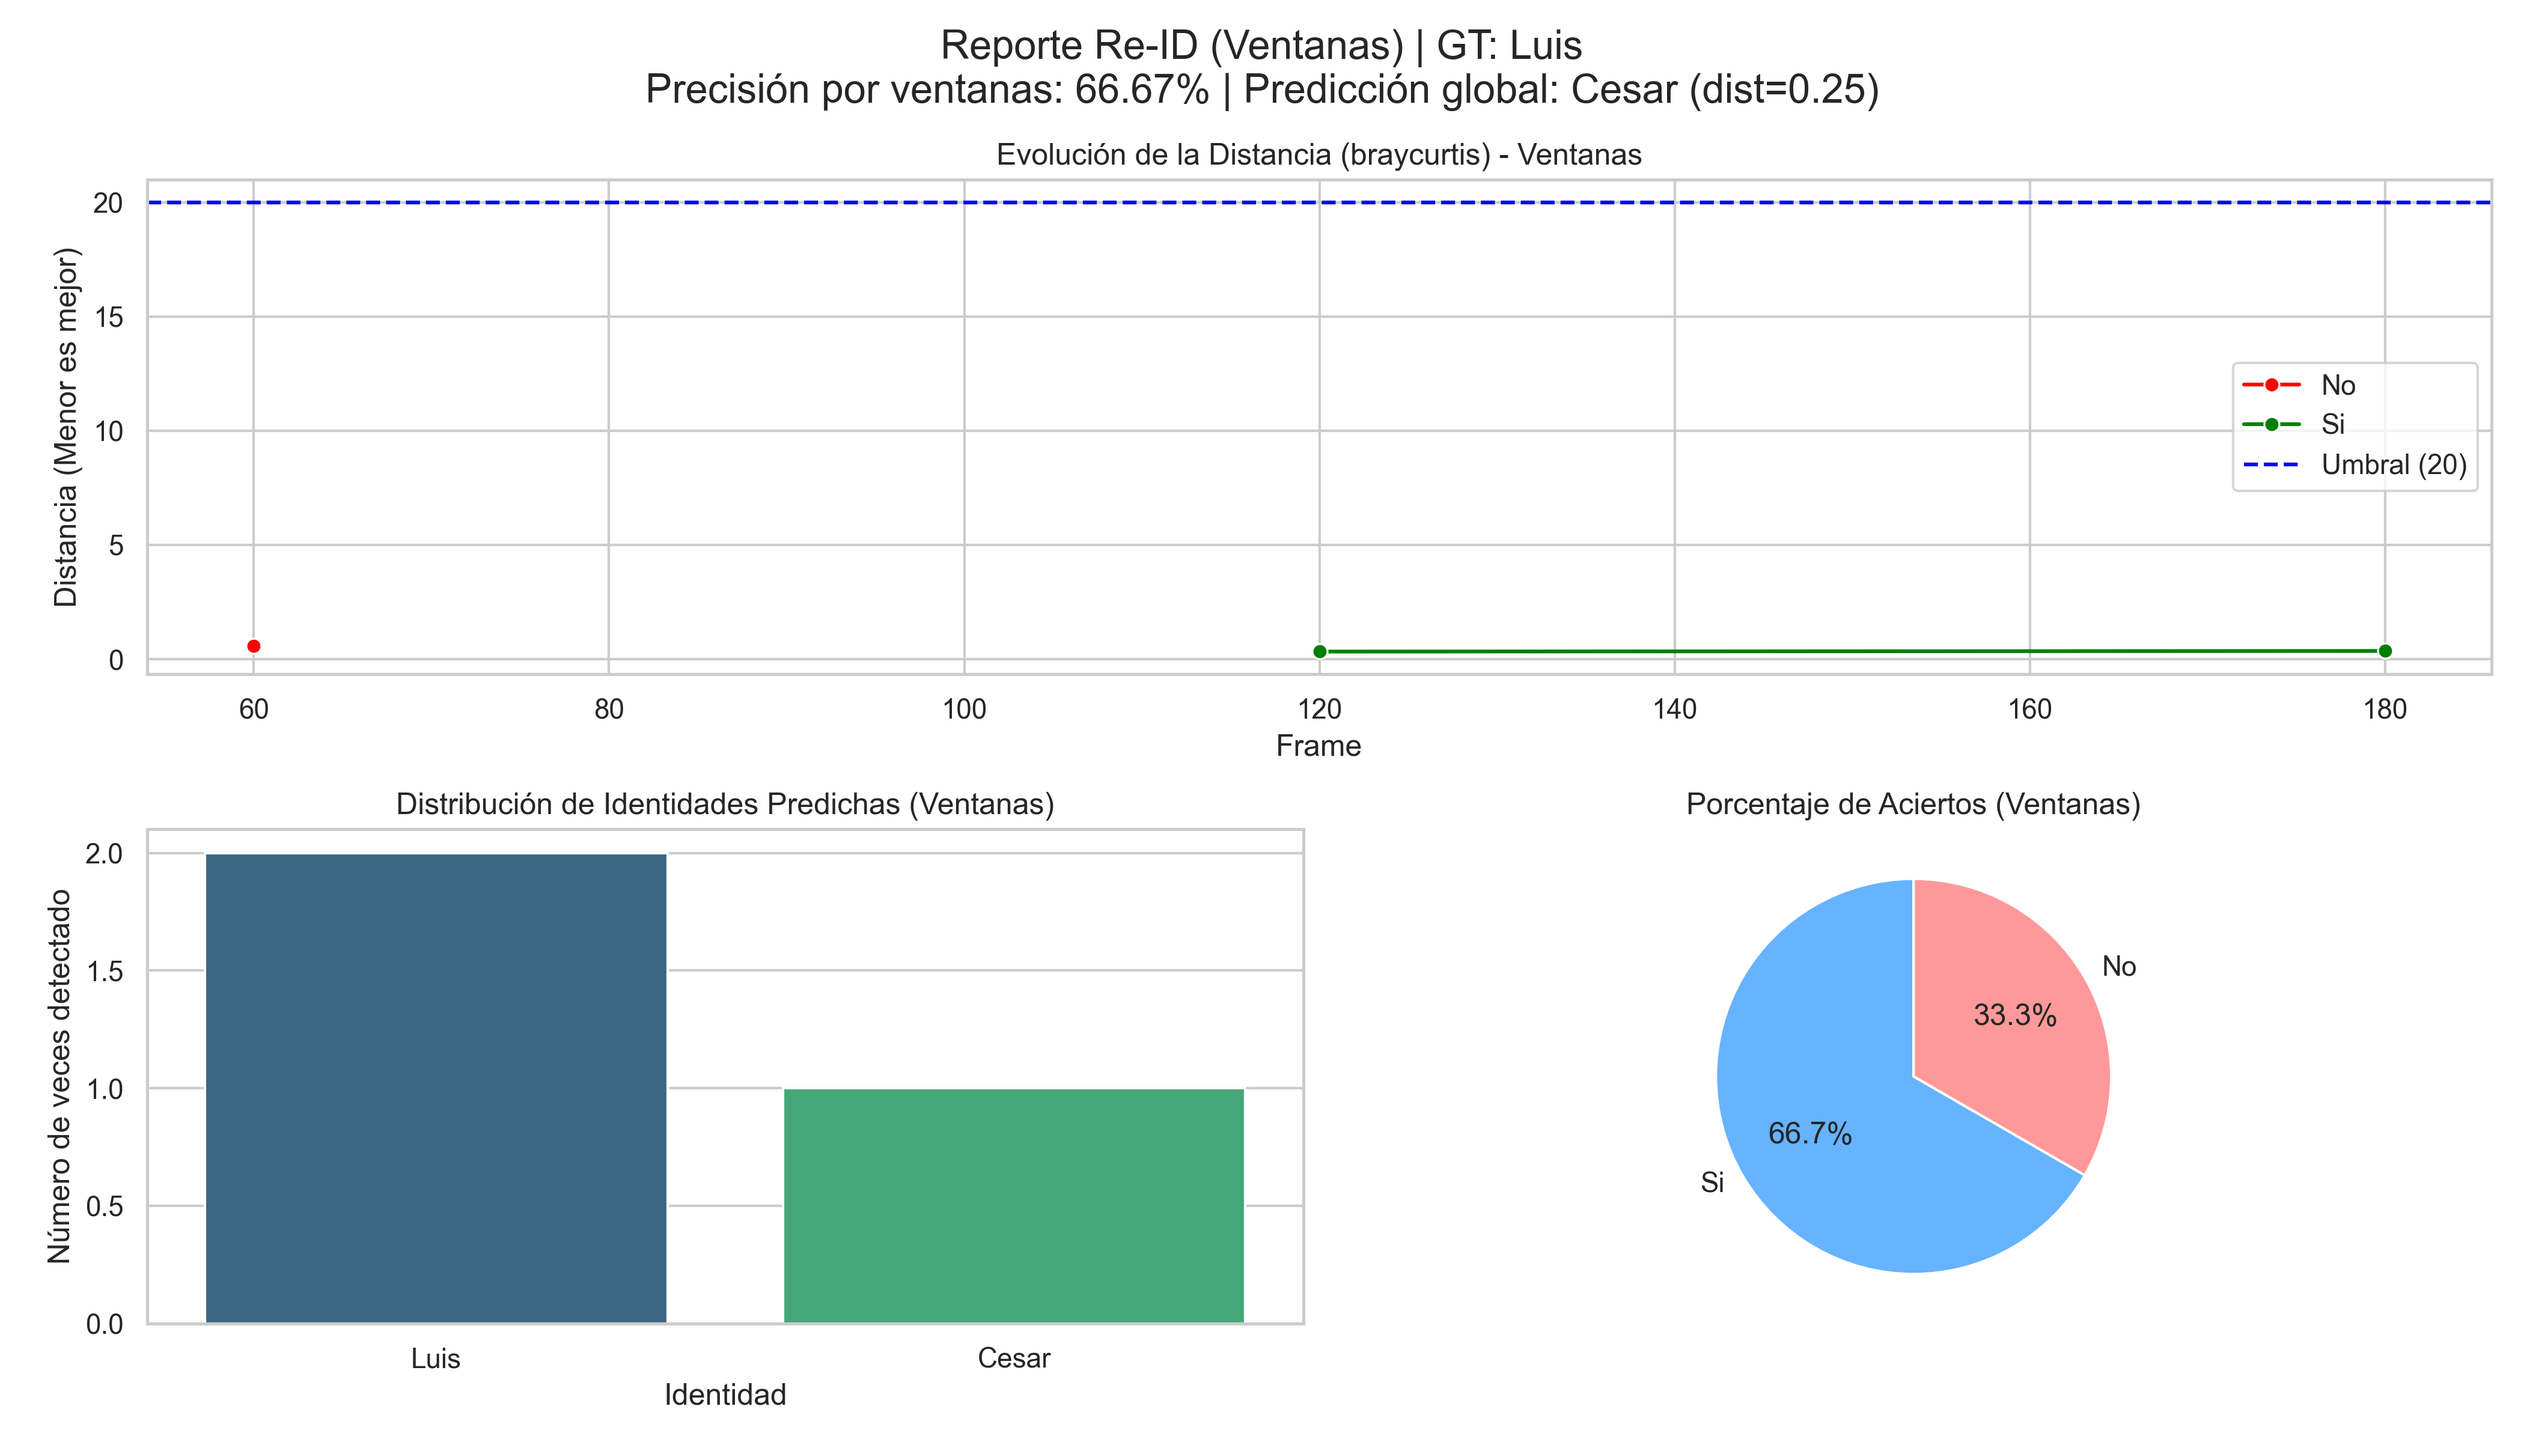
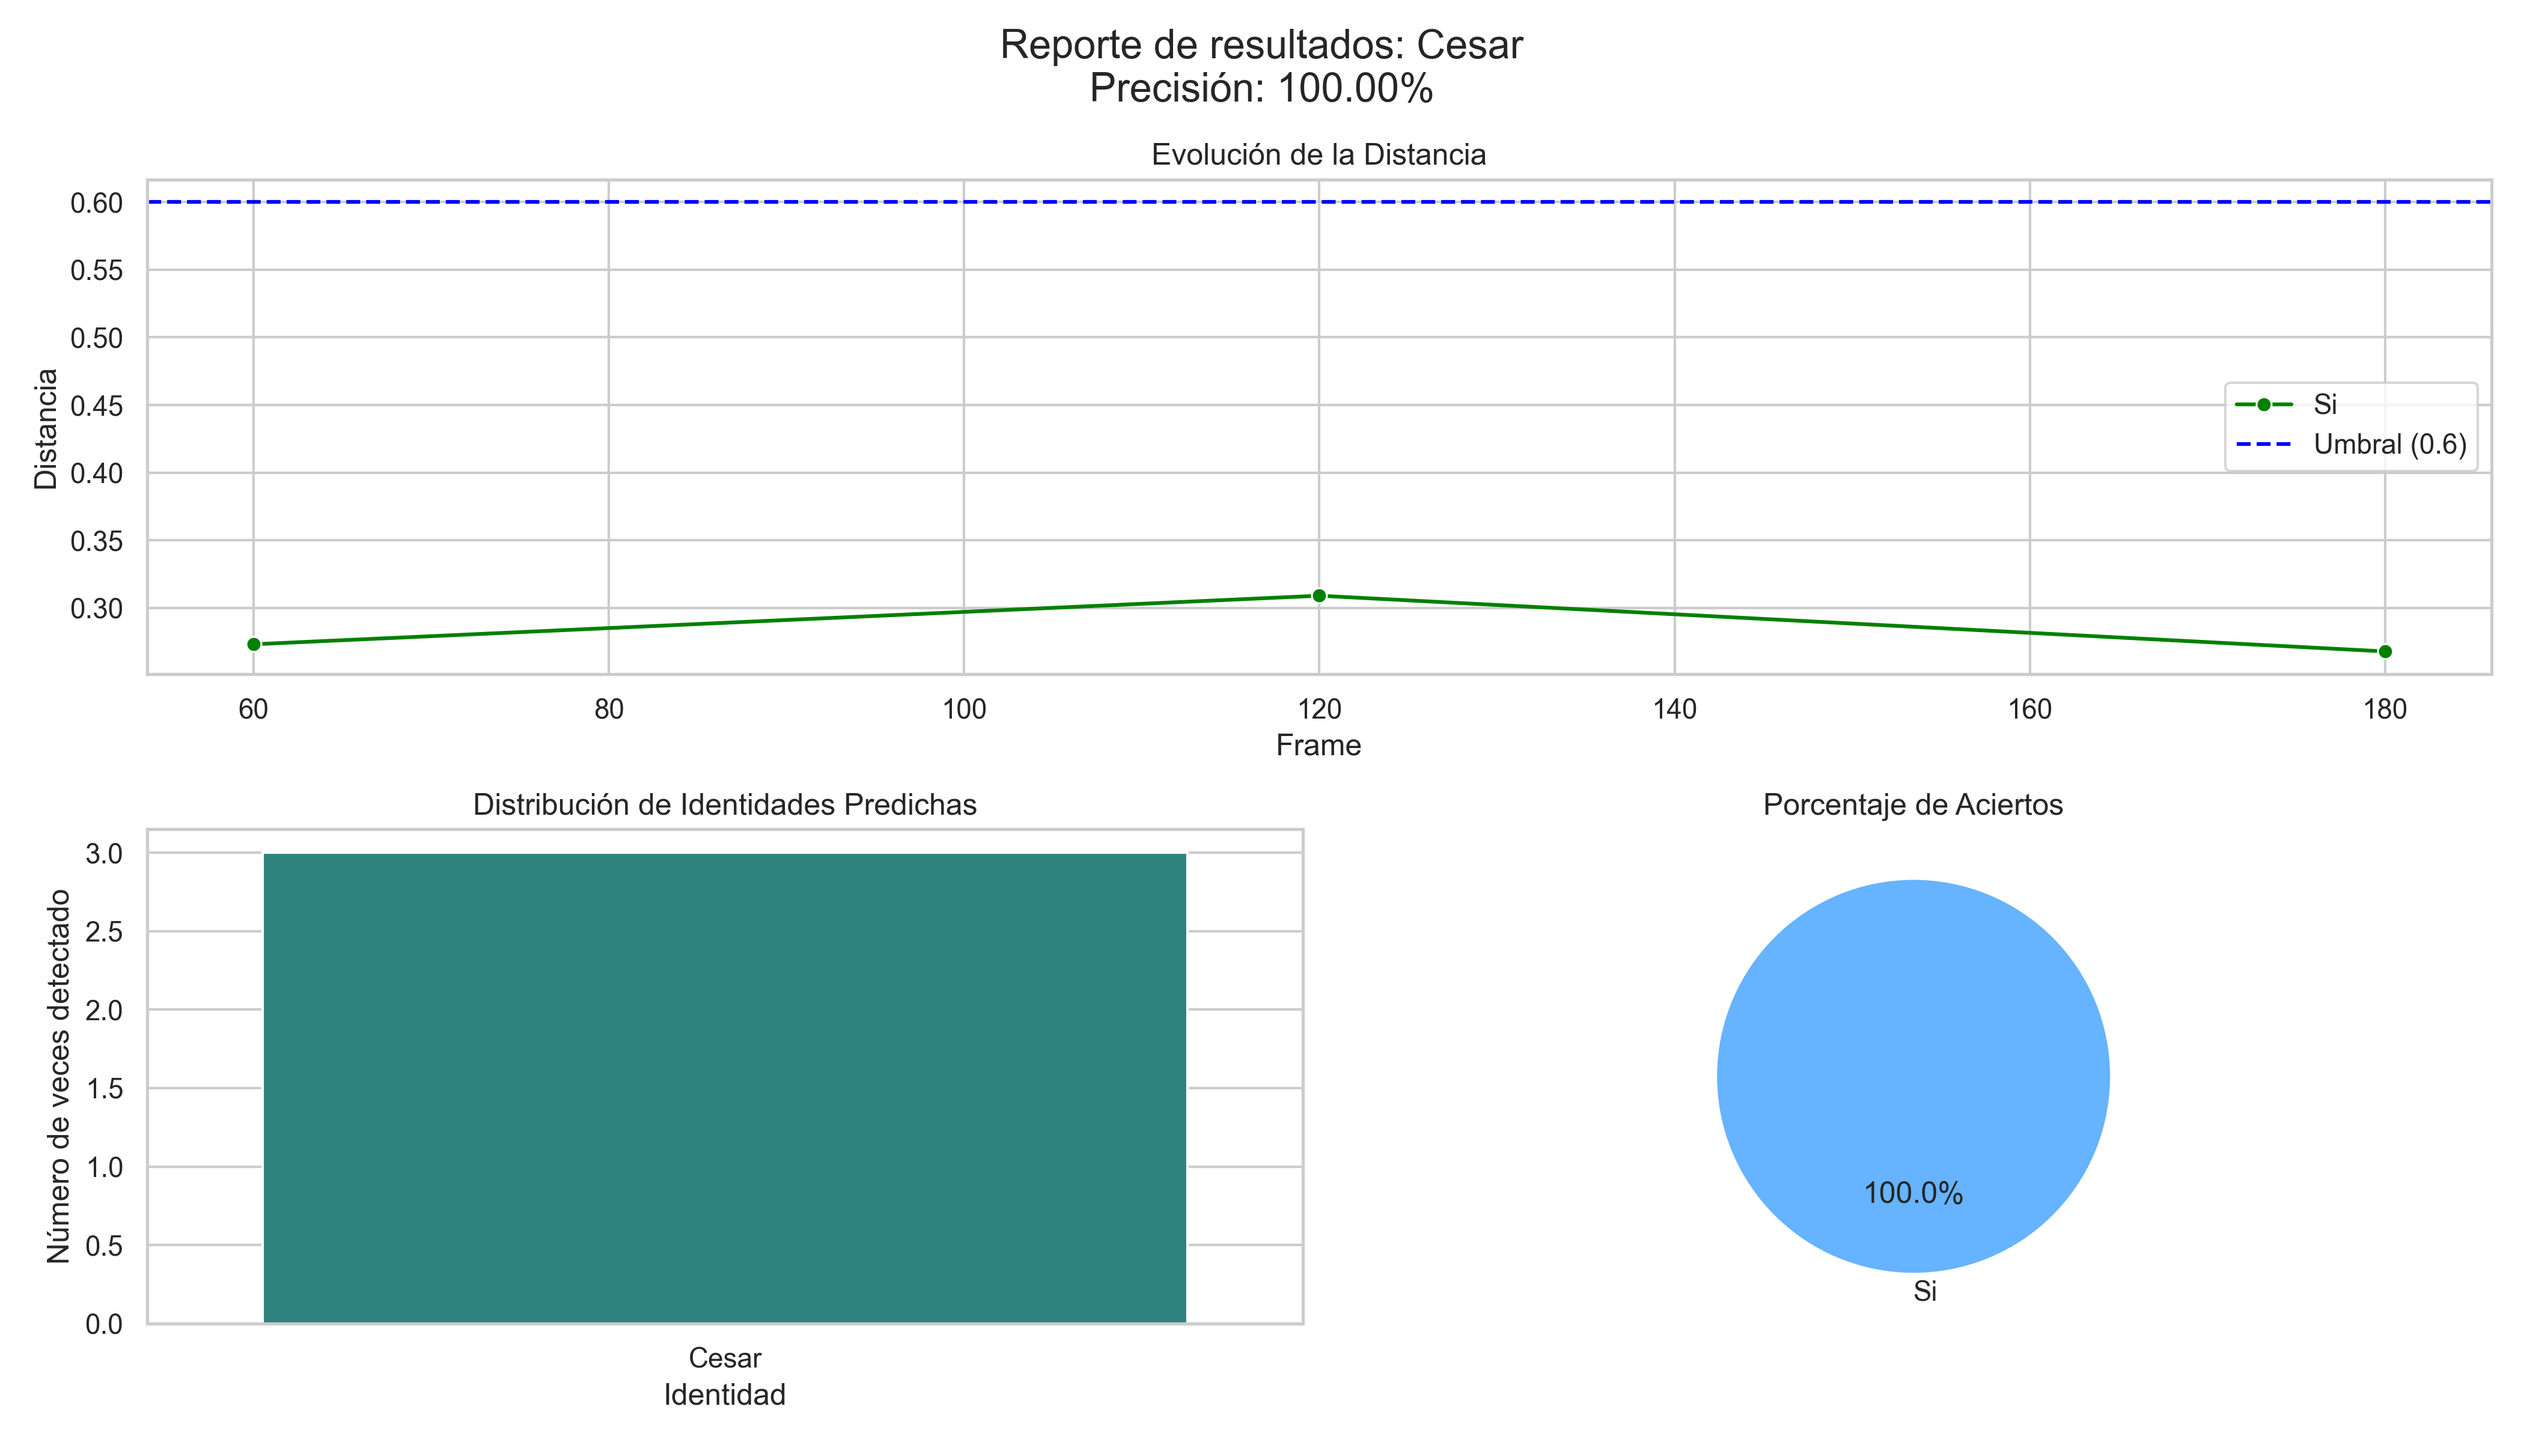
Esqueleto

diff --git a/estadisticos.py b/estadisticos.py
@@ -21,17 +21,35 @@ DATABASE_PATH = './reference_embeddings.pkl'
 
 # Parámetros
 SEQUENCE_LENGTH = 60        # Ventana para las predicciones continuas
-REID_THRESHOLD = 20         # Ajusta esto según tus pruebas
+REID_THRESHOLD = 0.6        # Ajusta esto según tus pruebas
 INPUT_WIDTH = 640
 INPUT_HEIGHT = 640
+
+current_label = "Recopilando Frames: "
 
 # NUEVO: keypoints de cuerpo (COCO: sin cara: 5–16)
 BODY_KPT_INDICES = list(range(5, 17))   # 12 puntos
 NUM_BODY_KPTS = len(BODY_KPT_INDICES)
 
+# <<< NUEVO: conexiones del esqueleto en el orden COCO de 17 puntos
+# Índices COCO: 
+# 0 nose, 1 l_eye, 2 r_eye, 3 l_ear, 4 r_ear,
+# 5 l_shoulder, 6 r_shoulder, 7 l_elbow, 8 r_elbow,
+# 9 l_wrist, 10 r_wrist, 11 l_hip, 12 r_hip,
+# 13 l_knee, 14 r_knee, 15 l_ankle, 16 r_ankle
+BODY_SKELETON_CONNECTIONS = [
+    (5, 7), (7, 9),         # brazo izquierdo
+    (6, 8), (8, 10),        # brazo derecho
+    (5, 6),                 # hombros
+    (5, 11), (6, 12),       # hombro-cadera
+    (11, 12),               # caderas
+    (11, 13), (13, 15),     # pierna izquierda
+    (12, 14), (14, 16),     # pierna derecha
+]
+
 # --- --- CONFIGURACIÓN DE LA PRUEBA --- --- ---
-GROUND_TRUTH_ID = 'Luis'  # ¿Quién es la persona real en el video?
-VIDEO_PATH = ".//LuisPrueba.mp4"
+GROUND_TRUTH_ID = 'Cesar'  # ¿Quién es la persona real en el video?
+VIDEO_PATH = ".//CesarPrueba.mp4"
 # ------------------------------------------
 
 def normalize_frame_kpts(frame_kpts):
@@ -120,7 +138,14 @@ while True:
     output = ort_outs[0][0].T
 
     person_detected = False
-    current_label = "..."
+    if(frame_count<=60):
+        current_label = "Recopilando frames: "+str(frame_count)
+
+
+
+    # <<< NUEVO: variables para dibujar el esqueleto
+    keypoints_rescaled_full = None
+    keypoints_raw_full = None
 
     if len(output) > 0:
         best_detection_idx = np.argmax(output[:, 4])
@@ -135,14 +160,20 @@ while True:
 
             # Extraer TODOS los 17 keypoints (COCO)
             keypoints_raw = detection[5:].reshape((17, 3))
+            keypoints_raw_full = keypoints_raw  # <<< NUEVO: guardar completo para visibilidad
 
-            # Quedarnos solo con keypoints de cuerpo (sin cara)
-            body_kpts_raw = keypoints_raw[BODY_KPT_INDICES]  # (12, 3)
-
-            # Re-escalar igual que en el script de extracción
+            # Re-escalar keypoints al tamaño original del frame
             frame_h, frame_w = frame.shape[:2]
             scale_x = frame_w / INPUT_WIDTH
             scale_y = frame_h / INPUT_HEIGHT
+
+            # <<< NUEVO: re-escalar los 17 puntos para dibujar esqueleto
+            keypoints_rescaled_full = np.zeros((17, 2), dtype=np.float32)
+            keypoints_rescaled_full[:, 0] = keypoints_raw[:, 0] * scale_x
+            keypoints_rescaled_full[:, 1] = keypoints_raw[:, 1] * scale_y
+
+            # Quedarnos solo con keypoints de cuerpo (sin cara) para la red
+            body_kpts_raw = keypoints_raw[BODY_KPT_INDICES]  # (12, 3)
 
             kpts_body_rescaled = np.zeros((NUM_BODY_KPTS, 2), dtype=np.float32)
             kpts_body_rescaled[:, 0] = body_kpts_raw[:, 0] * scale_x
@@ -199,10 +230,30 @@ while True:
 
         keypoints_buffer.clear()
 
+    # <<< NUEVO: Dibujar esqueleto si tenemos keypoints
+    # <<< NUEVO: Dibujar SOLO keypoints del cuerpo
+    if keypoints_rescaled_full is not None and keypoints_raw_full is not None:
+
+    # Líneas del cuerpo
+        for i, j in BODY_SKELETON_CONNECTIONS:
+            if keypoints_raw_full[i, 2] > 0.2 and keypoints_raw_full[j, 2] > 0.2:
+                x1, y1 = keypoints_rescaled_full[i]
+                x2, y2 = keypoints_rescaled_full[j]
+                cv2.line(frame, (int(x1), int(y1)), (int(x2), int(y2)),
+                        (0, 255, 255), 2)
+
+    # Puntos del cuerpo
+        for idx in BODY_KPT_INDICES:
+            conf = keypoints_raw_full[idx, 2]
+            if conf > 0.2:
+                x, y = keypoints_rescaled_full[idx]
+                cv2.circle(frame, (int(x), int(y)), 4, (0, 255, 0), -1)
+
     # Visualización en tiempo real
     color = (0, 255, 0) if current_label == GROUND_TRUTH_ID else (0, 0, 255)
-    cv2.putText(frame, f"Pred: {current_label}", (20, 50),
-                cv2.FONT_HERSHEY_SIMPLEX, 1, color, 2)
+    if(current_label!=""):
+        cv2.putText(frame, f"{current_label}", (20, 50),
+                    cv2.FONT_HERSHEY_SIMPLEX, 1, color, 2)
     cv2.imshow('Analisis en Curso', frame)
 
     if cv2.waitKey(1) & 0xFF == ord('q'):
@@ -267,8 +318,8 @@ print(f"Generando gráficas... Precisión por ventanas: {precision:.2f}%")
 # Dashboard
 fig = plt.figure(figsize=(14, 8))
 fig.suptitle(
-    f'Reporte Re-ID (Ventanas) | GT: {GROUND_TRUTH_ID}\n'
-    f'Precisión por ventanas: {precision:.2f}% | Predicción global: {final_label_global} (dist={min_dist_global:.2f})',
+    f'Reporte de resultados: {GROUND_TRUTH_ID}\n'
+    f'Precisión: {precision:.2f}%',
     fontsize=16
 )
 gs = fig.add_gridspec(2, 2)
@@ -280,8 +331,8 @@ sns.lineplot(
     hue='Correcto', palette={'Si': 'green', 'No': 'red'}, ax=ax1
 )
 ax1.axhline(REID_THRESHOLD, color='blue', linestyle='--', label=f'Umbral ({REID_THRESHOLD})')
-ax1.set_title('Evolución de la Distancia (braycurtis) - Ventanas')
-ax1.set_ylabel('Distancia (Menor es mejor)')
+ax1.set_title('Evolución de la Distancia')
+ax1.set_ylabel('Distancia')
 ax1.legend()
 
 # 2. Distribución de Predicciones (ventanas)
@@ -289,7 +340,7 @@ ax2 = fig.add_subplot(gs[1, 0])
 conteo_preds = df['Predicción'].value_counts().reset_index()
 conteo_preds.columns = ['Identidad', 'Cantidad']
 sns.barplot(data=conteo_preds, x='Identidad', y='Cantidad', palette='viridis', ax=ax2)
-ax2.set_title('Distribución de Identidades Predichas (Ventanas)')
+ax2.set_title('Distribución de Identidades Predichas')
 ax2.set_ylabel('Número de veces detectado')
 
 # 3. Pastel de Aciertos vs Errores (ventanas)
@@ -297,7 +348,7 @@ ax3 = fig.add_subplot(gs[1, 1])
 counts = df['Correcto'].value_counts()
 ax3.pie(counts, labels=counts.index, autopct='%1.1f%%',
         colors=['#66b3ff', '#ff9999'], startangle=90)
-ax3.set_title('Porcentaje de Aciertos (Ventanas)')
+ax3.set_title('Porcentaje de Aciertos')
 
 plt.tight_layout()
 filename = "reporte_validacion_ventanas_y_global.png"
